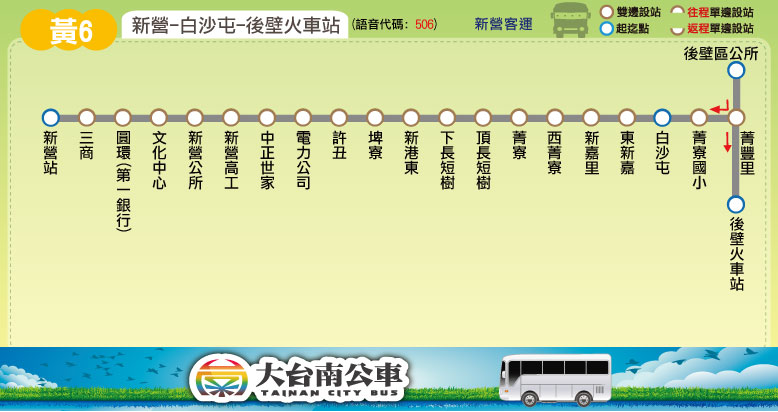
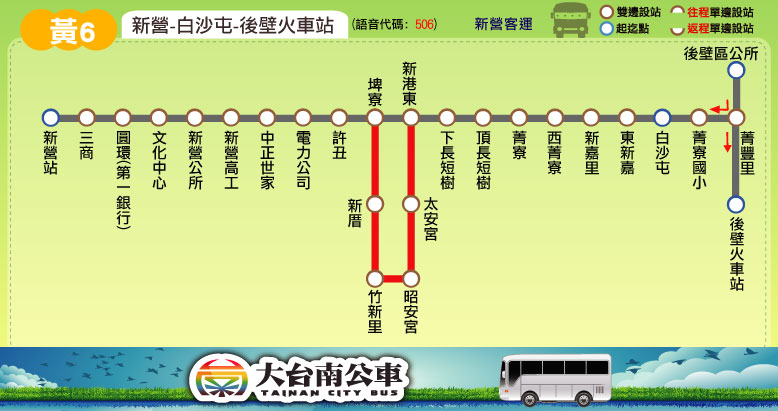
路線更動：黃6繞駛新厝、竹新里等站

diff --git a/route/fare_and_time/yellow_6.js b/route/fare_and_time/yellow_6.js
@@ -1,7 +1,9 @@
-yellow_6_interval_name = ["新營","埤寮","新港東","頂長<br />短樹","菁寮","白沙屯","菁寮<br />國小","後壁<br />火車站"];
-yellow_6_interval_stop = [ // 2015.7.5 checked
-["新營站","三商","圓環(第一銀行)","文化中心","新營公所","新營高工","中正世家"], // 新營
-["電力公司","許丑","埤寮"], // 埤寮
+yellow_6_interval_name = ["新營","埤寮","新厝","竹新里","新港東","頂長<br />短樹","菁寮","白沙屯","菁寮<br />國小","後壁<br />火車站"];
+yellow_6_interval_stop = [ // 2016.1.3 checked
+["新營站","三商","圓環(第一銀行)","文化中心","新營公所","新營高工","中正世家","電力公司","許丑"], // 新營
+["埤寮"], // 埤寮
+["新厝","竹新里","昭安宮"], // 新厝
+["太安宮"], // 竹新里
 ["新港東"], // 新港東
 ["下長短樹","頂長短樹"], // 頂長短樹
 ["菁寮","西菁寮","新嘉里"], // 菁寮
@@ -10,6 +12,19 @@ yellow_6_interval_stop = [ // 2015.7.5 checked
 ["後壁火車站"] // 後壁火車站
 ];
 yellow_6_fare = [
+[26],
+[26,26],
+[26,26,26],
+[26,26,26,26],
+[36,26,26,26,26],
+[47,34,29,26,26,26],
+[52,39,34,31,26,26,26],
+[60,48,42,39,26,26,26,26],
+[69,57,51,48,33,26,26,26,26],
+[86,73,68,65,49,39,34,26,26,26]
+];
+yellow_6_holiday_interval_name = ["新營","埤寮","新港東","頂長<br />短樹","菁寮","白沙屯","菁寮<br />國小","後壁<br />火車站"];
+yellow_6_holiday_fare = [
 [26],
 [26,26],
 [26,26,26],
@@ -22,8 +37,18 @@ yellow_6_fare = [
 // format = [time at the start stop] or
 // [time, other] or
 // [time, start_stop, end_stop, other]
-yellow_6_main_stop_name = ["新營","菁寮","白沙屯","後壁火車站/<br />區公所(發車)"];
-yellow_6_main_stop_time_consume = [0, 20, 25, 40];
-yellow_6_important_stop = [0, 2, 3]; // 新營, 白沙屯, 後壁火車站
-yellow_6_time_go = [["05:55",0,2],["06:45",0,2],["08:40"],["11:00"],["13:05"],["15:20"],["17:40"]];
-yellow_6_time_return = [["06:20",2,0],["07:10",2,0],["09:25"],["11:45"],["13:50"],["16:05"],["18:30"]];
+yellow_6_main_stop_name = ["新營","竹新里","菁寮","白沙屯","後壁火車站/<br />區公所(發車)"];
+yellow_6_main_stop_time_consume = [0, 13, 20, 25, 40];
+yellow_6_important_stop = [0, 2, 4]; // 新營, 菁寮, 後壁火車站
+var skip_stop = 1; // 竹新里
+var start_stop = 0; // 新營
+var end_stop = 3; // 白沙屯
+yellow_6_time_go = [["05:55",start_stop,end_stop,[skip_stop]],["06:45",start_stop,end_stop,[skip_stop]],
+["08:00",[[skip_stop+1,11]]],["11:00",[[skip_stop+1,11]]],["13:05",[[skip_stop+1,11]]],["15:20",[skip_stop]],["17:40",[skip_stop]]];
+yellow_6_time_return = [["06:20",end_stop,start_stop,[skip_stop]],["07:10",end_stop,start_stop,[skip_stop]],
+["08:55",[[skip_stop,11]]],["11:55",[[skip_stop,11]]],["14:00",[[skip_stop,11]]],["16:05",[skip_stop]],["18:30",[skip_stop]]];
+// holiday schedule
+yellow_6_holiday_time_go = [["05:55",start_stop,end_stop,[skip_stop]],["06:45",start_stop,end_stop,[skip_stop]],
+["08:00",[skip_stop]],["11:00",[skip_stop]],["13:05",[skip_stop]],["15:20",[skip_stop]],["17:40",[skip_stop]]];
+yellow_6_holiday_time_return = [["06:20",end_stop,start_stop,[skip_stop]],["07:10",end_stop,start_stop,[skip_stop]],
+["08:45",[skip_stop]],["11:45",[skip_stop]],["13:50",[skip_stop]],["16:05",[skip_stop]],["18:30",[skip_stop]]];

diff --git a/yellow/yellow_6.html b/yellow/yellow_6.html
@@ -8,7 +8,10 @@
 	route_file_name = 'yellow_6';
 	route_type = 'yellow';
 	route_interval = ['新營','白沙屯','後壁火車站'];
+	route_start_stop = '新營';
+	route_end_stop = '後壁火車站';
 </script>
+<link href="../css/radio_style.css" rel="stylesheet" />
 <script src="../tools/web_model.js"></script> 
 <script type="text/javascript">
 	header_code();
@@ -18,9 +21,9 @@
 <script type="text/javascript">
 	block_header();
 	block_route_map(null);
-	block_route_info(route_interval,'新營客運','','里程計費','http://2384.tainan.gov.tw:8080/AGPSRemoteQuery3/ajaxBus.jsp?pathId=1506&locale=zh_TW');
+	block_route_info(route_interval,'新營客運','','里程計費','http://2384.tainan.gov.tw:8080/AGPSRemoteQuery3/ajaxBus.jsp?pathId=1506&locale=zh_TW',[['平日','normal'],['假日','holiday']]);
 	block_fare(0, null);
-	block_time_schedule('新營','後壁火車站','<font color="blue">往後壁方向終點為後壁火車站，不經後壁區公所<br />往新營方向起點為後壁區公所，不經後壁火車站</font>');
+	block_multiple_time_schedule( [['平日班表','normal'],['假日班表','holiday']], '<font color="blue">往後壁方向終點為後壁火車站，不經後壁區公所<br />往新營方向起點為後壁區公所，不經後壁火車站</font>');
 	block_transfer(transfer_hsinyin + transfer_houbi_railway_station);
 	block_copyright();
 </script>
